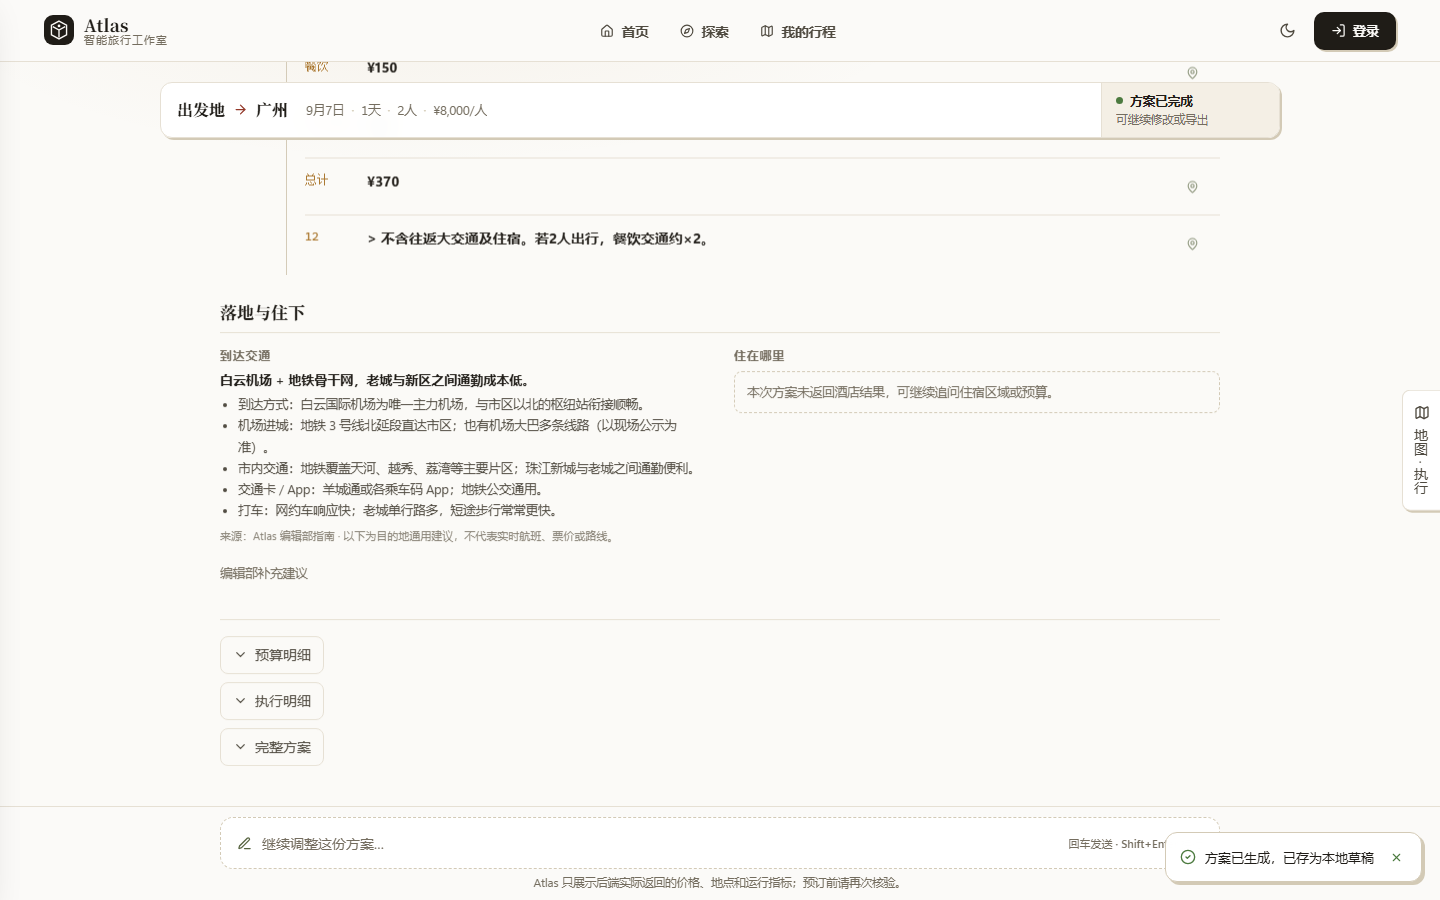
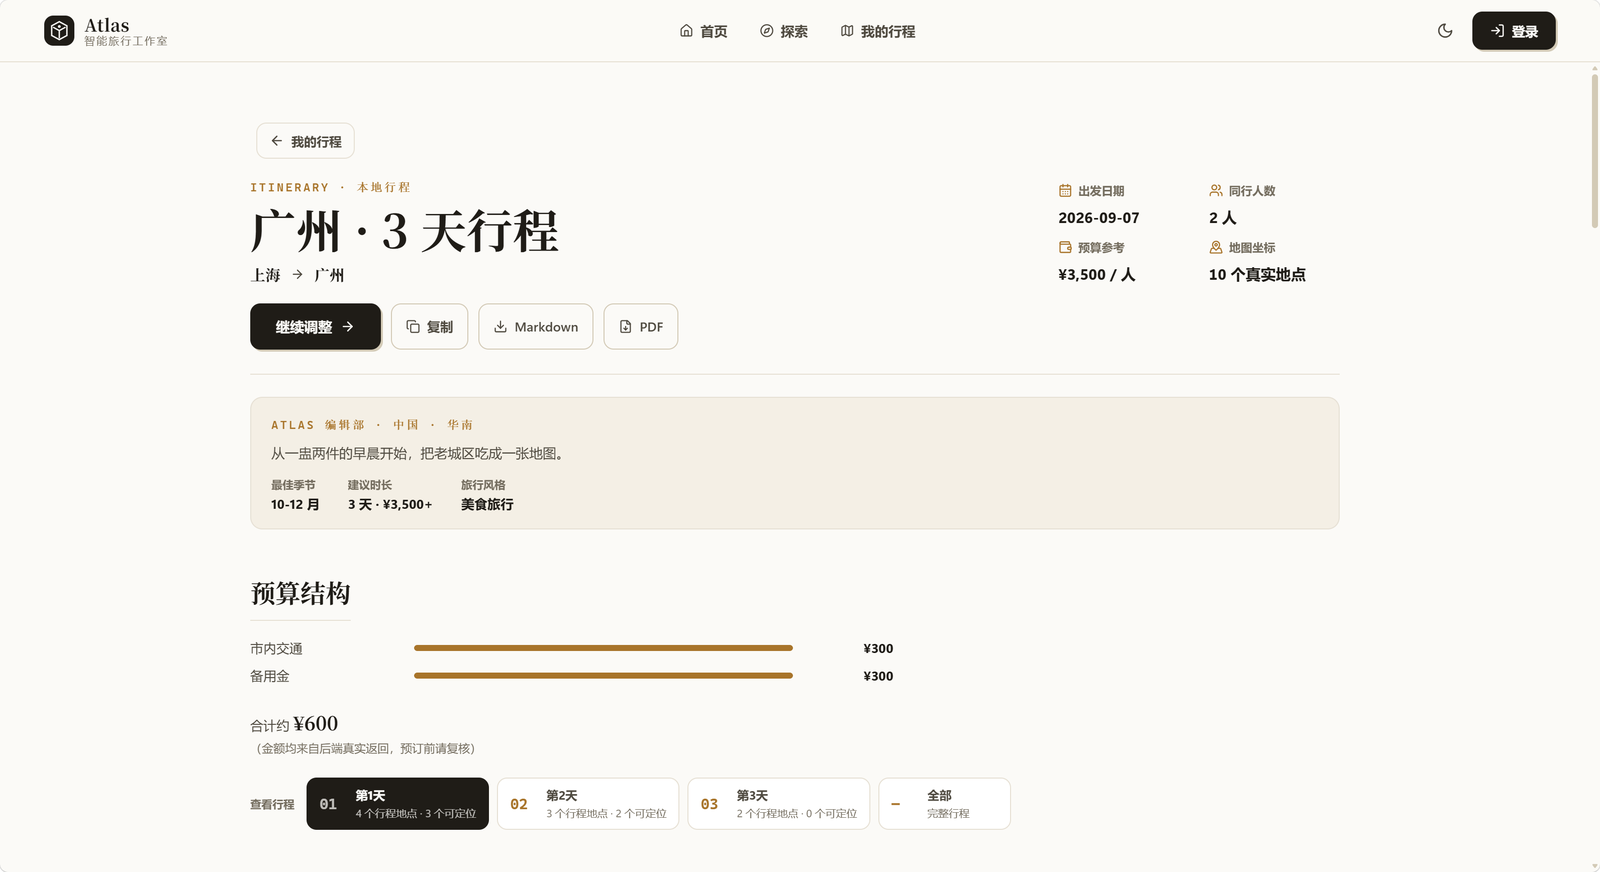
docs: 更换真实用户截图——首页/执行链/阅读态/行程详情，新增详情预览位

diff --git a/README.md b/README.md
@@ -17,18 +17,18 @@
 ---
 
 ## 📸 项目预览
-| 首页 · 一句话开始 | 移动端适配 |
+
+| 首页 · 一句话开始 | 实时执行链 · 高德地图联动 |
 |:---:|:---:|
-| ![首页](docs/screenshots/home.png) | ![移动端](docs/screenshots/mobile.png) |
+| ![首页](docs/screenshots/home.png) | ![实时执行链](docs/screenshots/planning.png) |
 
-| 实时执行链 · 高德地图联动 |
+| 规划完成 · 杂志风阅读态 | 行程详情 · 预算与每日安排 |
+|:---:|:---:|
+| ![规划完成](docs/screenshots/done.png) | ![行程详情](docs/screenshots/detail.png) |
+
+| 移动端适配 |
 |:---:|
-| ![实时执行链](docs/screenshots/planning.png) |
-
-| 规划完成 · 杂志风阅读态 |
-|:---:|
-| ![规划完成](docs/screenshots/done.png) |
-
+| ![移动端](docs/screenshots/mobile.png) |
 
 提交一句话后，五位智能体并行开工：进度、每轮工具调用、地图标注全部实时可见；完成后自动进入线性阅读态，可继续对话调整或一键导出。
 
